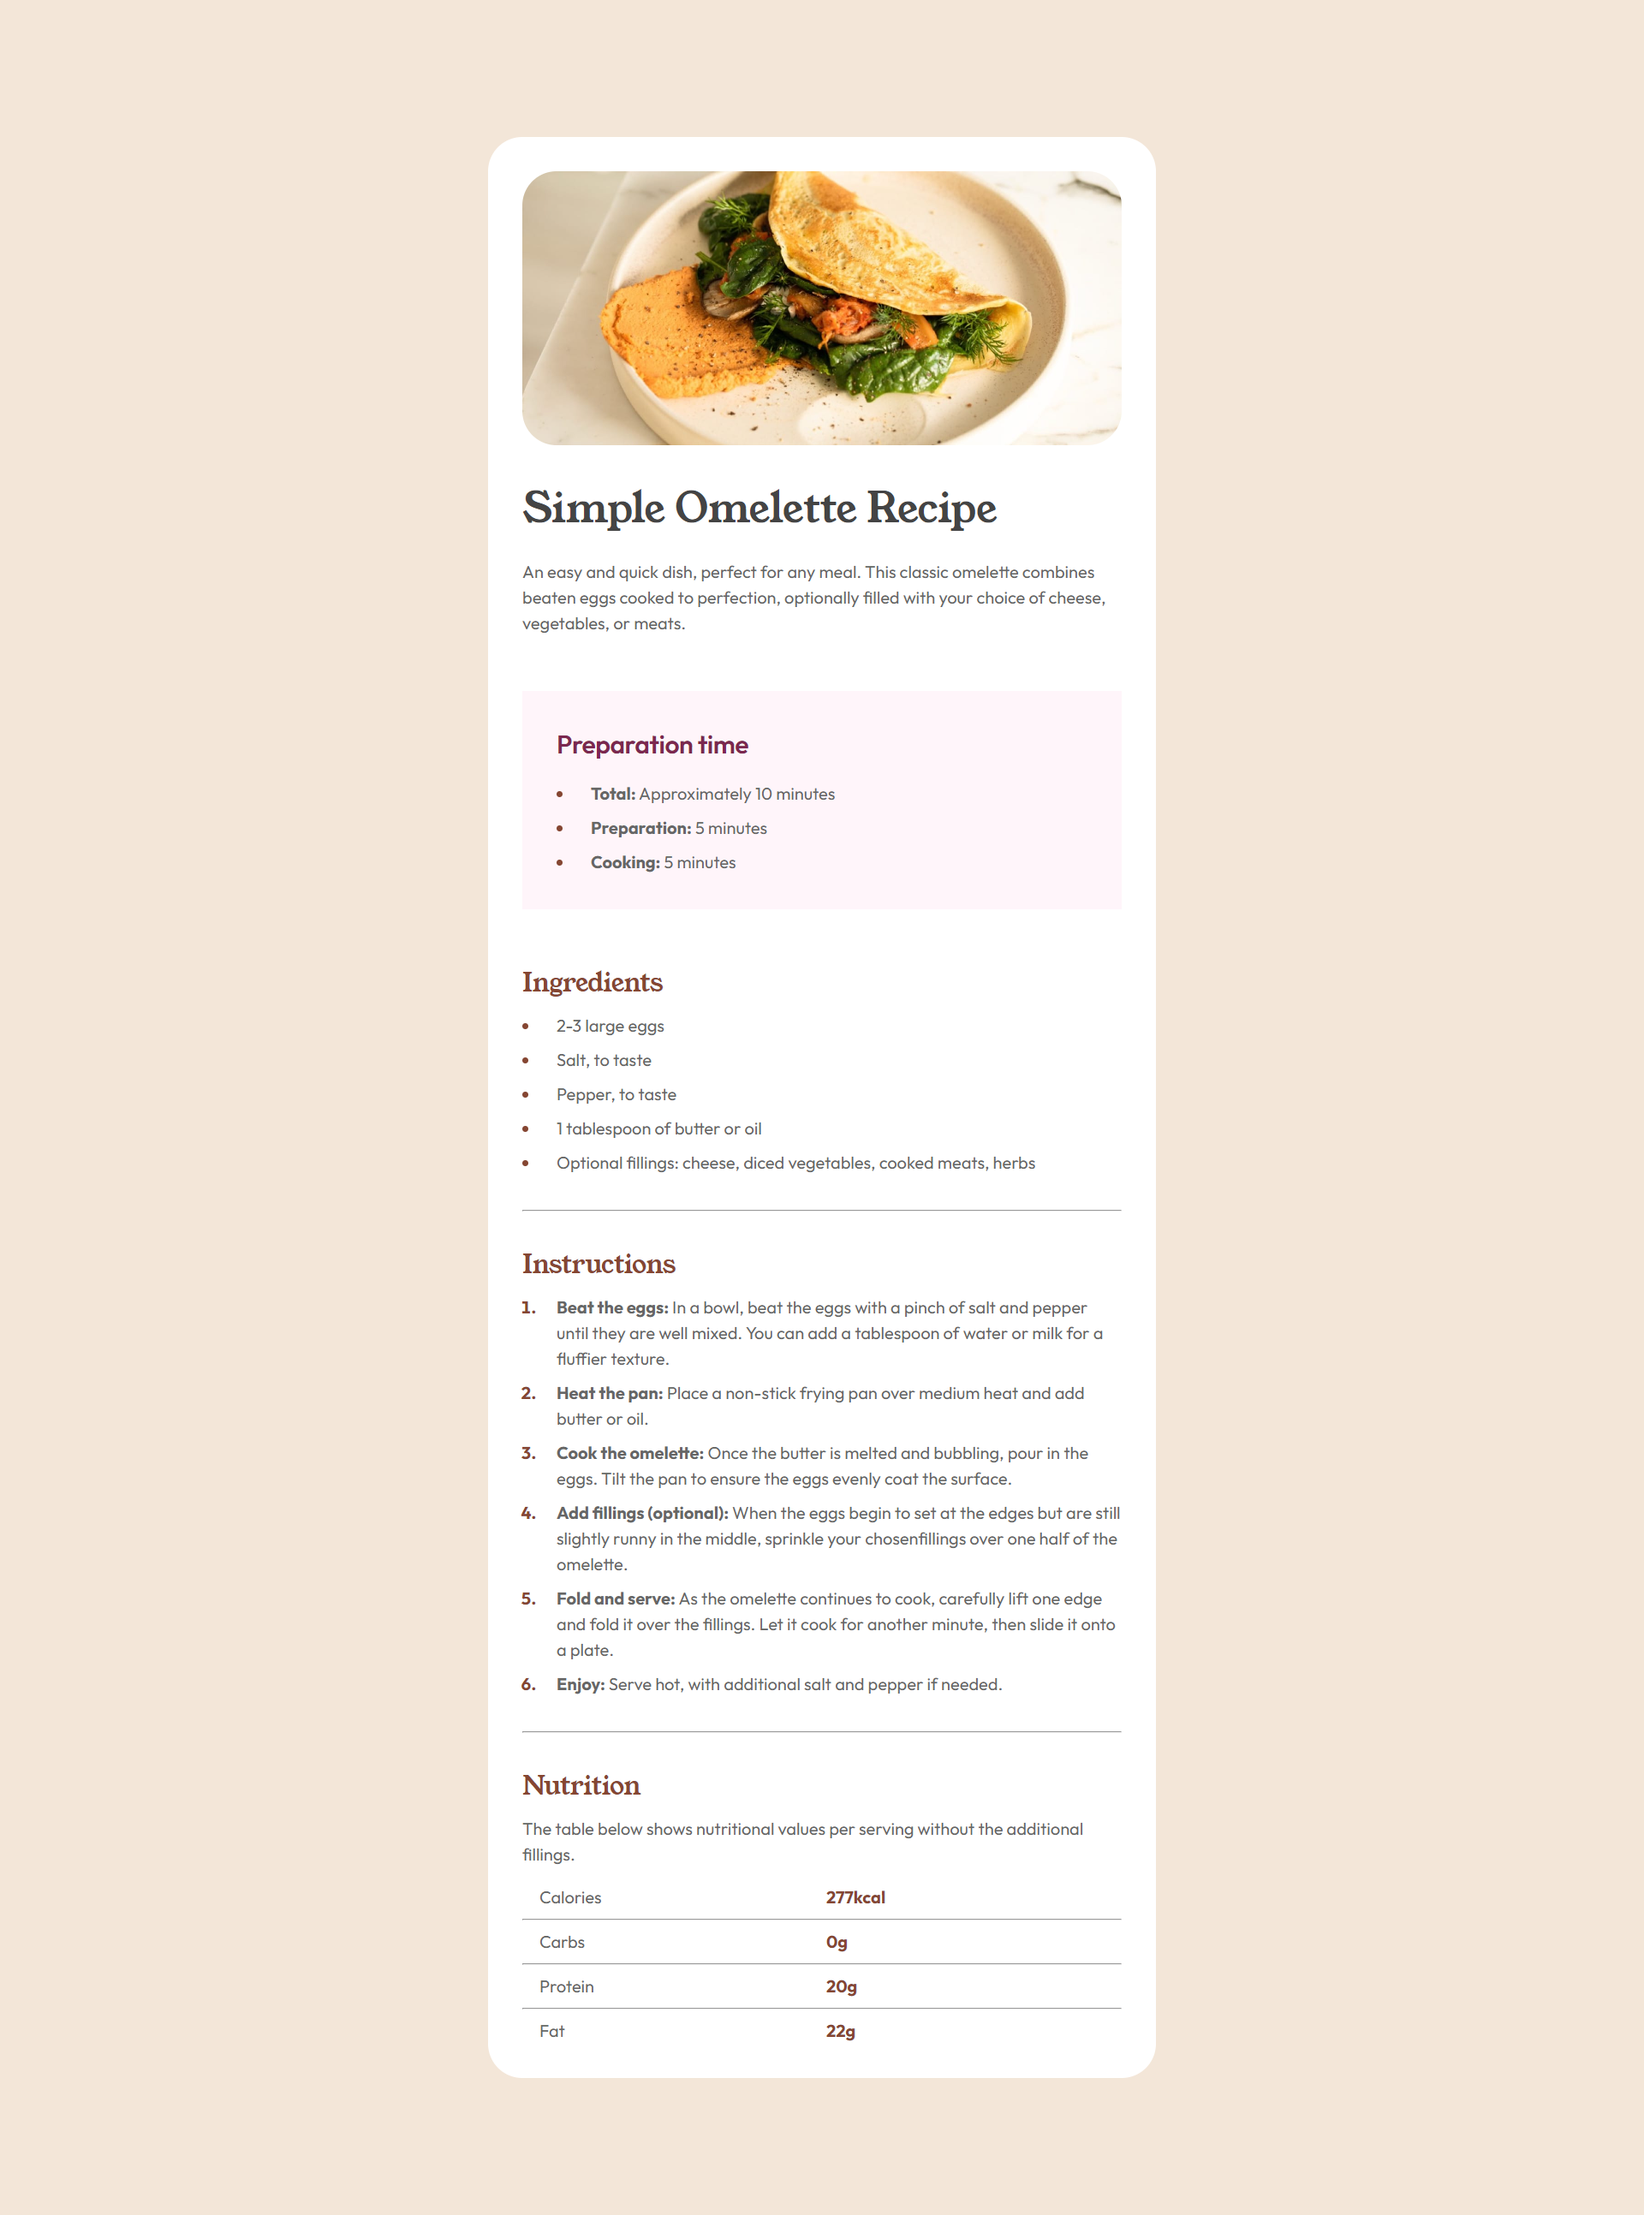
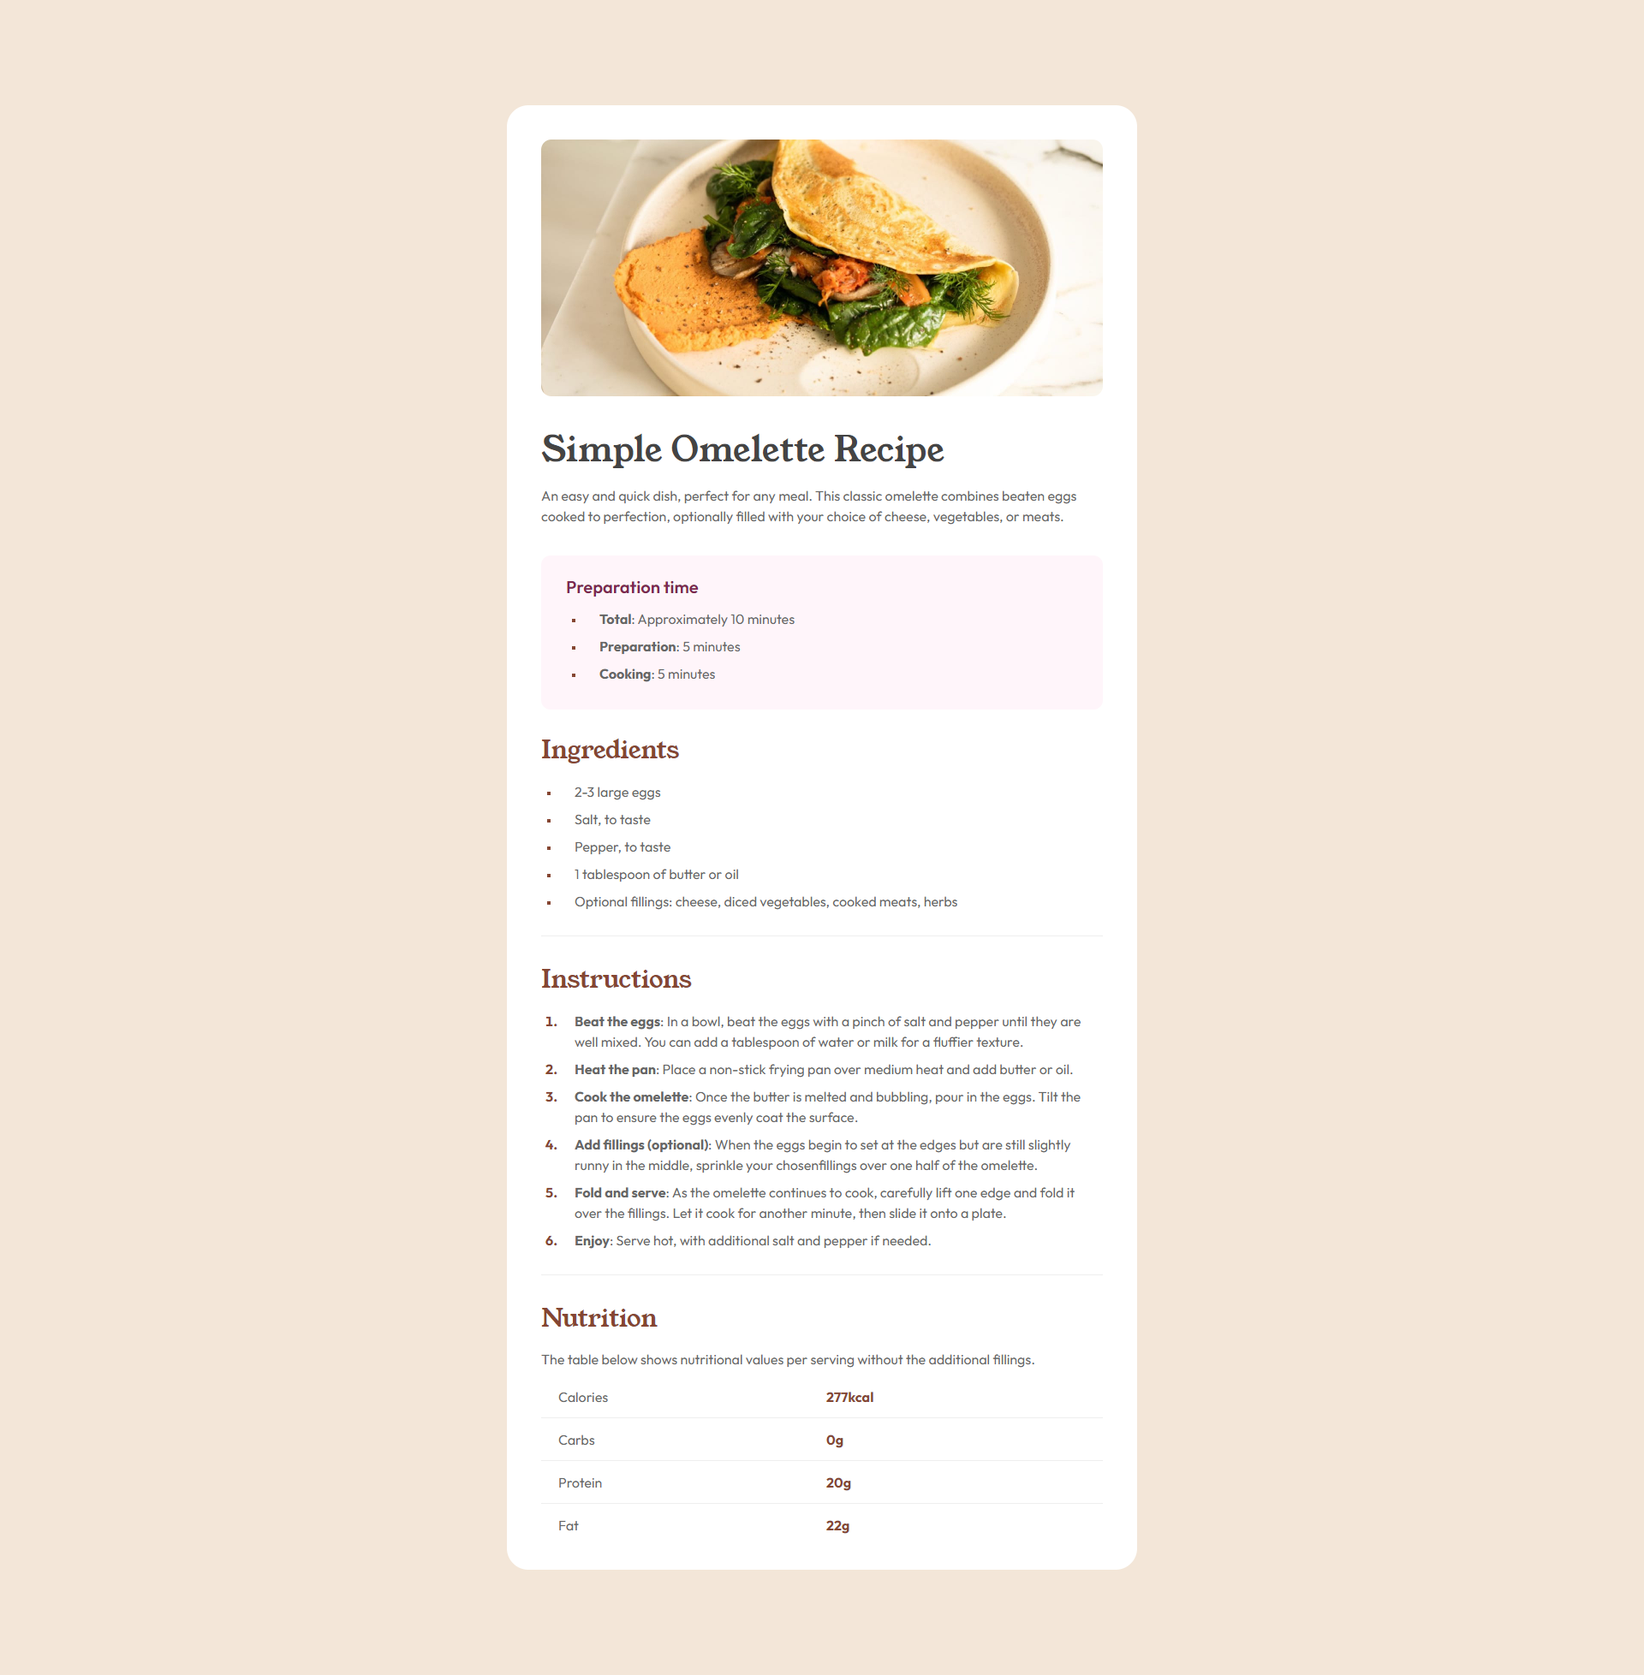
modified css

Changed region(s): [[0.2812, 0.0623, 0.7188, 0.9351]]

diff --git a/src/styles.css b/src/styles.css
@@ -18,21 +18,40 @@ html {
 
 body {
   background-color: hsl(30, 54%, 90%);
-  font-size: 2.4rem;
   line-height: 1.5;
   font-family: "Outfit", sans-serif;
+  /* width: 10000px; */
+}
+
+hr {
+  display: block;
+  height: 1px;
+  border: 0;
+  border-top: 1px solid #eee;
+  margin: 0.2rem 0;
+  padding: 0;
 }
 
 ul,
 ol {
-  padding-left: 2rem;
+  padding-left: 2.2rem;
   display: flex;
   flex-direction: column;
-  gap: 1rem;
+  gap: 0.8rem;
 }
 
+.point-header {
+  font-weight: 700;
+}
+ul {
+  list-style: square;
+}
 li {
-  padding-left: 2rem;
+  padding-left: 1.7rem;
+}
+
+ul li::marker {
+  font-size: small;
 }
 
 ol li::marker {
@@ -40,15 +59,15 @@ ol li::marker {
 }
 
 .app-body {
-  max-width: 78rem;
+  max-width: 73.6rem;
   background-color: #fff;
-  margin: 16rem auto;
-  border-radius: 40px;
+  margin: 12.3rem auto;
+  border-radius: 25px;
   display: flex;
   flex-direction: column;
-  gap: 6.4rem;
+  gap: 3.4rem;
   color: #666;
-  font-size: 2rem;
+  font-size: 1.6rem;
 }
 
 .article-main header {
@@ -66,24 +85,16 @@ li::marker {
 .ingredients-title,
 .instructions-title,
 .nutrition-title {
-  font-size: 3rem;
+  font-size: 2.85rem;
   font-weight: 400;
   font-family: "Young Serif", serif;
-  margin-bottom: 1.2rem;
-}
-
-.main-header-title,
-.ingredients-title,
-.instructions-title,
-.nutrition-title,
-.preparation-title {
-  letter-spacing: -0.5px;
+  margin-bottom: 1.5rem;
 }
 
 .main-header {
   display: flex;
   flex-direction: column;
-  gap: 4rem;
+  gap: 2.7rem;
 }
 
 .header-img-container {
@@ -92,7 +103,7 @@ li::marker {
 
 .header-img {
   width: 100%;
-  border-radius: 40px;
+  border-radius: 12px;
 }
 
 .header-div {
@@ -101,31 +112,31 @@ li::marker {
 
 .main-header-title {
   font-family: "Young Serif", serif;
-  font-weight: 400;
+  font-weight: normal;
   color: #444;
-  font-size: 4.8rem;
-  margin-bottom: 3.2rem;
-  line-height: 1.1;
+  font-size: 4rem;
+  margin-bottom: 1.1rem;
+  transform: scaleY(0.99);
 }
 
 .article-main {
   padding: 0 4rem 4rem 4rem;
   display: flex;
   flex-direction: column;
-  gap: 4rem;
+  gap: 2.6rem;
 }
 
 .preparation {
   background-color: hsl(330, 100%, 98%);
-  padding: 4rem;
-  margin-bottom: 2.4rem;
+  padding: 2.2rem 0 3rem 2.9rem;
+  border-radius: 11px;
 }
 
 .preparation-title {
   color: hsl(332, 51%, 32%);
-  font-size: 3rem;
+  font-size: 2rem;
   font-weight: 600;
-  margin-bottom: 2rem;
+  margin-bottom: 1rem;
 }
 
 .nutrient-table {

diff --git a/src/App.js b/src/App.js
@@ -62,8 +62,10 @@ export default function App() {
           </Content>
           <Breaker className="end" />
           <Content header="Nutrition" className="nutrition">
-            The table below shows nutritional values per serving without the
-            additional fillings.
+            <p className="nutrition-info-label">
+              The table below shows nutritional values per serving without the
+              additional fillings.
+            </p>
             <div className="nutrient-table">
               <Nutrient nutrient="Calories" value="277kcal" />
               <Breaker />
@@ -131,8 +133,8 @@ function Content({ header, children, className }) {
 function Point({ header, point }) {
   return (
     <li className="point">
-      <strong className="point-header">{header}:</strong>{" "}
-      <span className="point-content">{point}</span>
+      <strong className="point-header">{header}</strong>
+      <span className="point-content">: {point}</span>
     </li>
   );
 }

diff --git a/public/index.html b/public/index.html
@@ -5,7 +5,7 @@
     <link rel="preconnect" href="https://fonts.googleapis.com" />
     <link rel="preconnect" href="https://fonts.gstatic.com" crossorigin />
     <link
-      href="https://fonts.googleapis.com/css2?family=Outfit:wght@400;500;600;700&family=Young+Serif&display=swap"
+      href="https://fonts.googleapis.com/css2?family=Outfit:wght@400;500;600;700;800&family=Young+Serif&display=swap"
       rel="stylesheet"
     />
     <link rel="icon" href="%PUBLIC_URL%/favicon.ico" />
